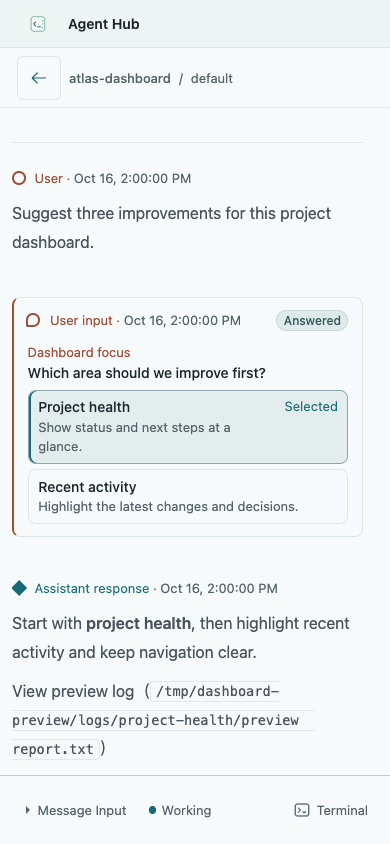
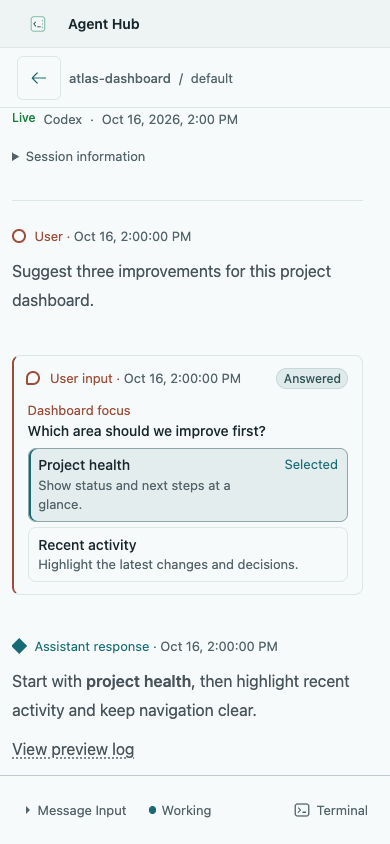
Show blocked Markdown link addresses in a copyable dialog (#236)

diff --git a/tests/client/session-reader-components.test.tsx b/tests/client/session-reader-components.test.tsx
@@ -1,4 +1,4 @@
-import { render, screen } from "@testing-library/react";
+import { render, screen, within } from "@testing-library/react";
 import userEvent from "@testing-library/user-event";
 import { describe, expect, it, vi } from "vitest";
 
@@ -100,7 +100,8 @@ describe("session reader components", () => {
 
   it.each([null, "plan"] as const)(
     "preserves blocked Markdown destinations in %s content",
-    (itemType) => {
+    async (itemType) => {
+      const user = userEvent.setup();
       const { container } = render(
         <MessageItem
           planOpen
@@ -128,26 +129,34 @@ describe("session reader components", () => {
         />,
       );
       expect(container.querySelector("a")).toBeNull();
-      expect(
-        [...container.querySelectorAll(".markdown-link-target")].map((node) => node.textContent),
-      ).toEqual([
-        "/tmp/my  log.txt",
-        "./my  report.txt",
-        "./unlabeled",
-        "../notes",
-        "file:///tmp/secret",
-      ]);
-      expect(screen.getByText("View log").parentElement?.textContent).toBe(
-        "View log（/tmp/my  log.txt）",
-      );
-      expect(screen.getByText("View report", { exact: false }).textContent).toBe(
-        "View report（./my  report.txt）",
-      );
+      expect(container.textContent).not.toContain("/tmp/my  log.txt");
       expect(screen.getByText("Empty").textContent).toBe("Empty");
-      expect(screen.getByText("./same").parentElement?.textContent).toBe("./same");
-      const formattedLabel = screen.getByText("./formatted", { selector: "strong" });
-      expect(formattedLabel.parentElement?.textContent).toBe("./formatted");
-      expect(screen.getByText("./unlabeled").parentElement?.textContent).toBe("./unlabeled");
+      expect(screen.getByText("View log", { selector: "strong" })).toBeInTheDocument();
+      const cases = [
+        ["View log", "/tmp/my  log.txt", "{Enter}"],
+        ["View report", "./my  report.txt", " "],
+        ["./same", "./same"],
+        ["./formatted", "./formatted"],
+        ["View link address", "./unlabeled"],
+        ["Relative", "../notes"],
+        ["Blocked", "file:///tmp/secret"],
+      ] as const;
+      for (const [name, address, key] of cases) {
+        const trigger = screen.getByRole("button", { name });
+        if (key) {
+          trigger.focus();
+          await user.keyboard(key);
+        } else {
+          await user.click(trigger);
+        }
+        const dialog = screen.getByRole("dialog", { name });
+        const dialogContent = within(dialog);
+        expect(dialog.querySelector("code")?.textContent).toBe(address);
+        await user.click(dialogContent.getByRole("button", { name: "Copy link" }));
+        expect(await navigator.clipboard.readText()).toBe(address);
+        await user.click(dialogContent.getByRole("button", { name: "Close link address" }));
+        expect(dialog).not.toHaveAttribute("open");
+      }
     },
   );
 

diff --git a/src/client/components/MarkdownLinkAddress.tsx b/src/client/components/MarkdownLinkAddress.tsx
@@ -1,0 +1,99 @@
+import { type ReactNode, useEffect, useId, useRef, useState } from "react";
+import { createPortal } from "react-dom";
+import { useTranslation } from "react-i18next";
+
+import { t } from "../i18n";
+import { CopyIcon } from "./CopyIcon";
+
+export function MarkdownLinkAddress({
+  children,
+  label,
+  url,
+}: {
+  children: ReactNode;
+  label: string;
+  url: string;
+}) {
+  useTranslation();
+  const [open, setOpen] = useState(false);
+  const [feedback, setFeedback] = useState<"copied" | "couldNotCopyLink" | null>(null);
+  const dialog = useRef<HTMLDialogElement>(null);
+  const titleId = useId();
+  const title = label || t("viewLinkAddress");
+
+  useEffect(() => {
+    if (open) dialog.current?.showModal();
+  }, [open]);
+
+  function openAddress() {
+    setFeedback(null);
+    setOpen(true);
+  }
+
+  async function copyAddress() {
+    try {
+      await navigator.clipboard.writeText(url);
+      setFeedback("copied");
+    } catch {
+      setFeedback("couldNotCopyLink");
+    }
+  }
+
+  return (
+    <>
+      <span
+        role="button"
+        tabIndex={0}
+        className="markdown-link-trigger"
+        aria-haspopup="dialog"
+        onClick={openAddress}
+        onKeyDown={(event) => {
+          if (event.key === " " || event.key === "Enter") event.preventDefault();
+          if (event.key === "Enter" && !event.repeat) openAddress();
+        }}
+        onKeyUp={(event) => {
+          if (event.key === " ") {
+            event.preventDefault();
+            openAddress();
+          }
+        }}
+      >
+        {label ? children : title}
+      </span>
+      {open &&
+        createPortal(
+          <dialog
+            ref={dialog}
+            className="markdown-link-dialog"
+            aria-labelledby={titleId}
+            onClose={() => setOpen(false)}
+          >
+            <div className="markdown-link-dialog-header">
+              <h2 id={titleId}>{title}</h2>
+              <button
+                type="button"
+                aria-label={t("closeLinkAddress")}
+                title={t("closeLinkAddress")}
+                onClick={() => dialog.current?.close()}
+              >
+                <span aria-hidden="true">×</span>
+              </button>
+            </div>
+            <div className="markdown-link-address">
+              <code>{url}</code>
+              <button
+                type="button"
+                aria-label={t("copyLink")}
+                title={t("copyLink")}
+                onClick={copyAddress}
+              >
+                <CopyIcon />
+              </button>
+            </div>
+            <small role="status">{feedback ? t(feedback) : null}</small>
+          </dialog>,
+          document.body,
+        )}
+    </>
+  );
+}

diff --git a/src/client/styles/events.css b/src/client/styles/events.css
@@ -60,8 +60,75 @@
   min-width: 0;
   overflow-wrap: anywhere;
 }
-.markdown-link-target {
+.message-body .markdown-link-trigger {
+  text-decoration: underline dotted var(--ink-soft);
+  text-underline-offset: 0.2em;
+  overflow-wrap: anywhere;
+  cursor: pointer;
+}
+.message-body .markdown-link-trigger:focus-visible {
+  outline: none;
+  text-decoration-color: var(--current);
+  text-decoration-style: solid;
+}
+.markdown-link-dialog {
+  width: min(31rem, calc(100% - 2rem));
+  max-height: calc(100dvh - 2rem);
+  box-sizing: border-box;
+  padding: 0.75rem;
+  border: 1px solid var(--mist);
+  border-radius: var(--radius-panel);
+  background: var(--surface);
+  color: var(--ink);
+}
+.markdown-link-dialog::backdrop {
+  background: #13282c40;
+}
+.markdown-link-dialog-header,
+.markdown-link-address {
+  display: flex;
+  align-items: center;
+  justify-content: space-between;
+  gap: 0.5rem;
+}
+.markdown-link-dialog-header {
+  margin-bottom: 0.25rem;
+}
+.markdown-link-dialog h2 {
+  margin: 0;
+  font: var(--weight-medium) 1rem var(--body-font);
+  overflow-wrap: anywhere;
+}
+.markdown-link-address {
+  padding: 0.25rem 0.375rem 0.25rem 0.625rem;
+  border-radius: var(--radius-control);
+  background: var(--hover-surface);
+}
+.markdown-link-address code {
+  min-width: 0;
+  font: var(--text-small) / 1.55 var(--mono-font);
   white-space: pre-wrap;
+  overflow-wrap: anywhere;
+}
+.markdown-link-dialog button {
+  display: grid;
+  flex: 0 0 44px;
+  place-items: center;
+  width: 44px;
+  min-height: 44px;
+  padding: 0;
+  border: 0;
+  background: transparent;
+  color: var(--ink-soft);
+  font-size: 1.25rem;
+  cursor: pointer;
+}
+.markdown-link-dialog button:hover {
+  background: var(--selected-surface);
+}
+.markdown-link-dialog small:not(:empty) {
+  display: block;
+  margin-top: 0.375rem;
 }
 
 .markdown-scroll-region {

diff --git a/src/client/components/AttachCommand.tsx b/src/client/components/AttachCommand.tsx
@@ -2,6 +2,7 @@ import { useState } from "react";
 import { useTranslation } from "react-i18next";
 
 import { t } from "../i18n";
+import { CopyIcon } from "./CopyIcon";
 
 const copyFailed = "copyFailedSelectTheCommandAndCopyItManually";
 type CopyMessage = "" | "copied" | typeof copyFailed;
@@ -28,18 +29,7 @@ export function AttachCommand({ command }: { command: string }) {
       <p className="session-meta">
         {t("tmuxAccess")}{" "}
         <button type="button" aria-label={copyLabel} title={copyLabel} onClick={copyCommand}>
-          <svg
-            aria-hidden="true"
-            width="14"
-            height="14"
-            viewBox="0 0 24 24"
-            fill="none"
-            stroke="currentColor"
-            strokeWidth="2"
-          >
-            <rect x="8" y="8" width="12" height="12" rx="2" />
-            <path d="M16 8V6a2 2 0 0 0-2-2H6a2 2 0 0 0-2 2v8a2 2 0 0 0 2 2h2" />
-          </svg>
+          <CopyIcon />
         </button>{" "}
         <code>{command}</code>
       </p>

diff --git a/src/client/components/MessageItem.tsx b/src/client/components/MessageItem.tsx
@@ -16,6 +16,7 @@ import type { MessageItem as Message } from "../../shared/domain";
 import { t } from "../i18n";
 import { nodePagePath } from "../node-path";
 import { EventTime } from "./EventTime";
+import { MarkdownLinkAddress } from "./MarkdownLinkAddress";
 
 const SAFE_PROTOCOLS = new Set(["http:", "https:", "mailto:"]);
 const REMARK_PLUGINS = [remarkGfm, remarkMath];
@@ -55,14 +56,11 @@ const MARKDOWN_COMPONENTS = {
       );
     }
     const target = node && linkTargets.get(node);
-    if (!target?.url || target.label === target.url) return <span>{children}</span>;
-    const address = <code className="markdown-link-target">{target.url}</code>;
-    return target.label ? (
-      <span>
-        {children}（{address}）
-      </span>
-    ) : (
-      address
+    if (!target?.url) return <span>{children}</span>;
+    return (
+      <MarkdownLinkAddress label={target.label} url={target.url}>
+        {children}
+      </MarkdownLinkAddress>
     );
   },
   img: ({ alt }: ComponentProps<"img">) => (

diff --git a/src/client/i18n/locales/zh-TW.ts b/src/client/i18n/locales/zh-TW.ts
@@ -37,6 +37,7 @@ export const messages: Record<keyof typeof english, string> = {
   checkTheCurrentStateBeforeTryingAgain: "重試前請檢查目前狀態。",
   chooseFiles: "選擇檔案",
   chooseImages: "選擇圖片",
+  closeLinkAddress: "關閉連結位址",
   closeImagePreview: "關閉圖片預覽",
   closeNewSession: "關閉新增工作階段",
   closeResumeSession: "關閉恢復工作階段",
@@ -50,6 +51,7 @@ export const messages: Record<keyof typeof english, string> = {
   copied: "已複製",
   copyCommand: "複製命令",
   copyFailedSelectTheCommandAndCopyItManually: "複製失敗，請選取命令後手動複製。",
+  viewLinkAddress: "查看連結位址",
   copyLink: "複製連結",
   couldNotCopyLink: "無法複製連結",
   couldNotLoadSession: "無法載入工作階段",

diff --git a/src/client/i18n/locales/zh-CN.ts b/src/client/i18n/locales/zh-CN.ts
@@ -37,6 +37,7 @@ export const messages: Record<keyof typeof english, string> = {
   checkTheCurrentStateBeforeTryingAgain: "重试前请检查当前状态。",
   chooseFiles: "选择文件",
   chooseImages: "选择图片",
+  closeLinkAddress: "关闭链接地址",
   closeImagePreview: "关闭图片预览",
   closeNewSession: "关闭新建会话",
   closeResumeSession: "关闭恢复会话",
@@ -50,6 +51,7 @@ export const messages: Record<keyof typeof english, string> = {
   copied: "已复制",
   copyCommand: "复制命令",
   copyFailedSelectTheCommandAndCopyItManually: "复制失败，请选中命令后手动复制。",
+  viewLinkAddress: "查看链接地址",
   copyLink: "复制链接",
   couldNotCopyLink: "无法复制链接",
   couldNotLoadSession: "无法加载会话",

diff --git a/src/client/i18n/locales/en.ts b/src/client/i18n/locales/en.ts
@@ -36,6 +36,7 @@ export const messages = {
   checkTheCurrentStateBeforeTryingAgain: "Check the current state before trying again.",
   chooseFiles: "Choose files",
   chooseImages: "Choose images",
+  closeLinkAddress: "Close link address",
   closeImagePreview: "Close image preview",
   closeNewSession: "Close new session",
   closeResumeSession: "Close resume session",
@@ -50,6 +51,7 @@ export const messages = {
   copyCommand: "Copy command",
   copyFailedSelectTheCommandAndCopyItManually:
     "Copy failed. Select the command and copy it manually.",
+  viewLinkAddress: "View link address",
   copyLink: "Copy link",
   couldNotCopyLink: "Could not copy link",
   couldNotLoadSession: "Could not load session",

diff --git a/src/client/components/CopyIcon.tsx b/src/client/components/CopyIcon.tsx
@@ -1,0 +1,16 @@
+export function CopyIcon() {
+  return (
+    <svg
+      aria-hidden="true"
+      width="14"
+      height="14"
+      viewBox="0 0 24 24"
+      fill="none"
+      stroke="currentColor"
+      strokeWidth="2"
+    >
+      <rect x="8" y="8" width="12" height="12" rx="2" />
+      <path d="M16 8V6a2 2 0 0 0-2-2H6a2 2 0 0 0-2 2v8a2 2 0 0 0 2 2h2" />
+    </svg>
+  );
+}

diff --git a/src/client/i18n/namespaces.ts b/src/client/i18n/namespaces.ts
@@ -71,6 +71,8 @@ export const namespaceKeys = {
     "assistantUpdate",
     "assistantResponse",
     "assistantResponsePlan",
+    "closeLinkAddress",
+    "viewLinkAddress",
     "backToHome",
     "couldNotLoadSession",
     "hide",

diff --git a/src/client/styles/typography.css b/src/client/styles/typography.css
@@ -75,10 +75,6 @@
     font-size: 0.92em;
   }
 
-  .message-body code.markdown-link-target {
-    font-size: 0.85em;
-  }
-
   .markdown-scroll-code pre {
     padding: 12px;
     line-height: 1.65;
